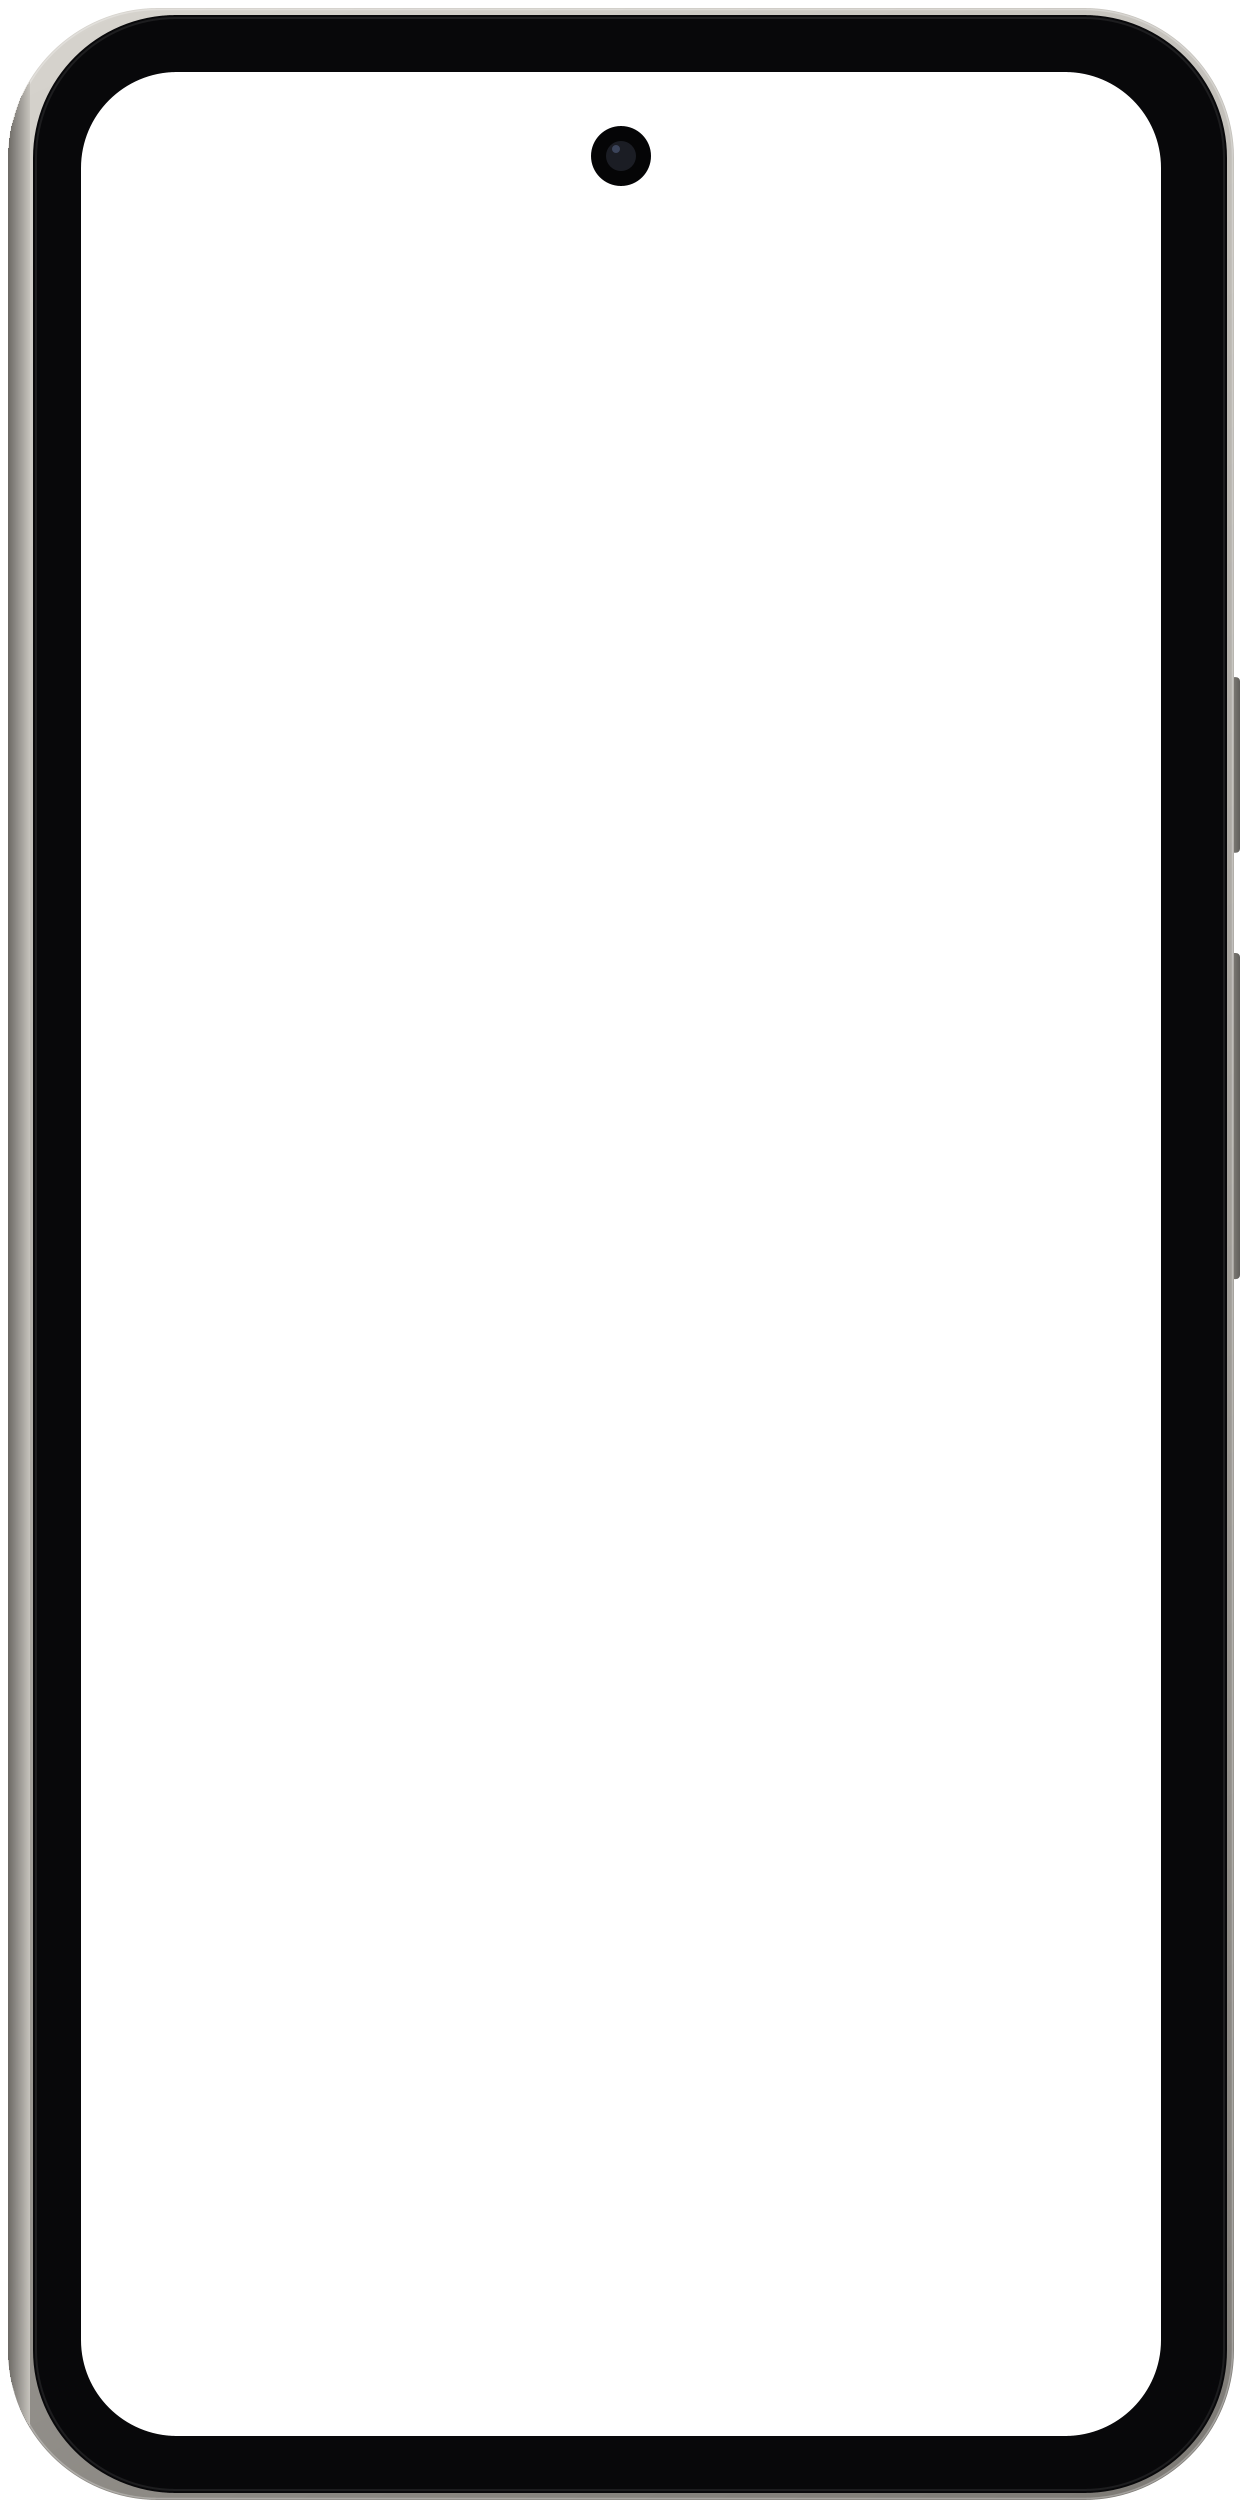
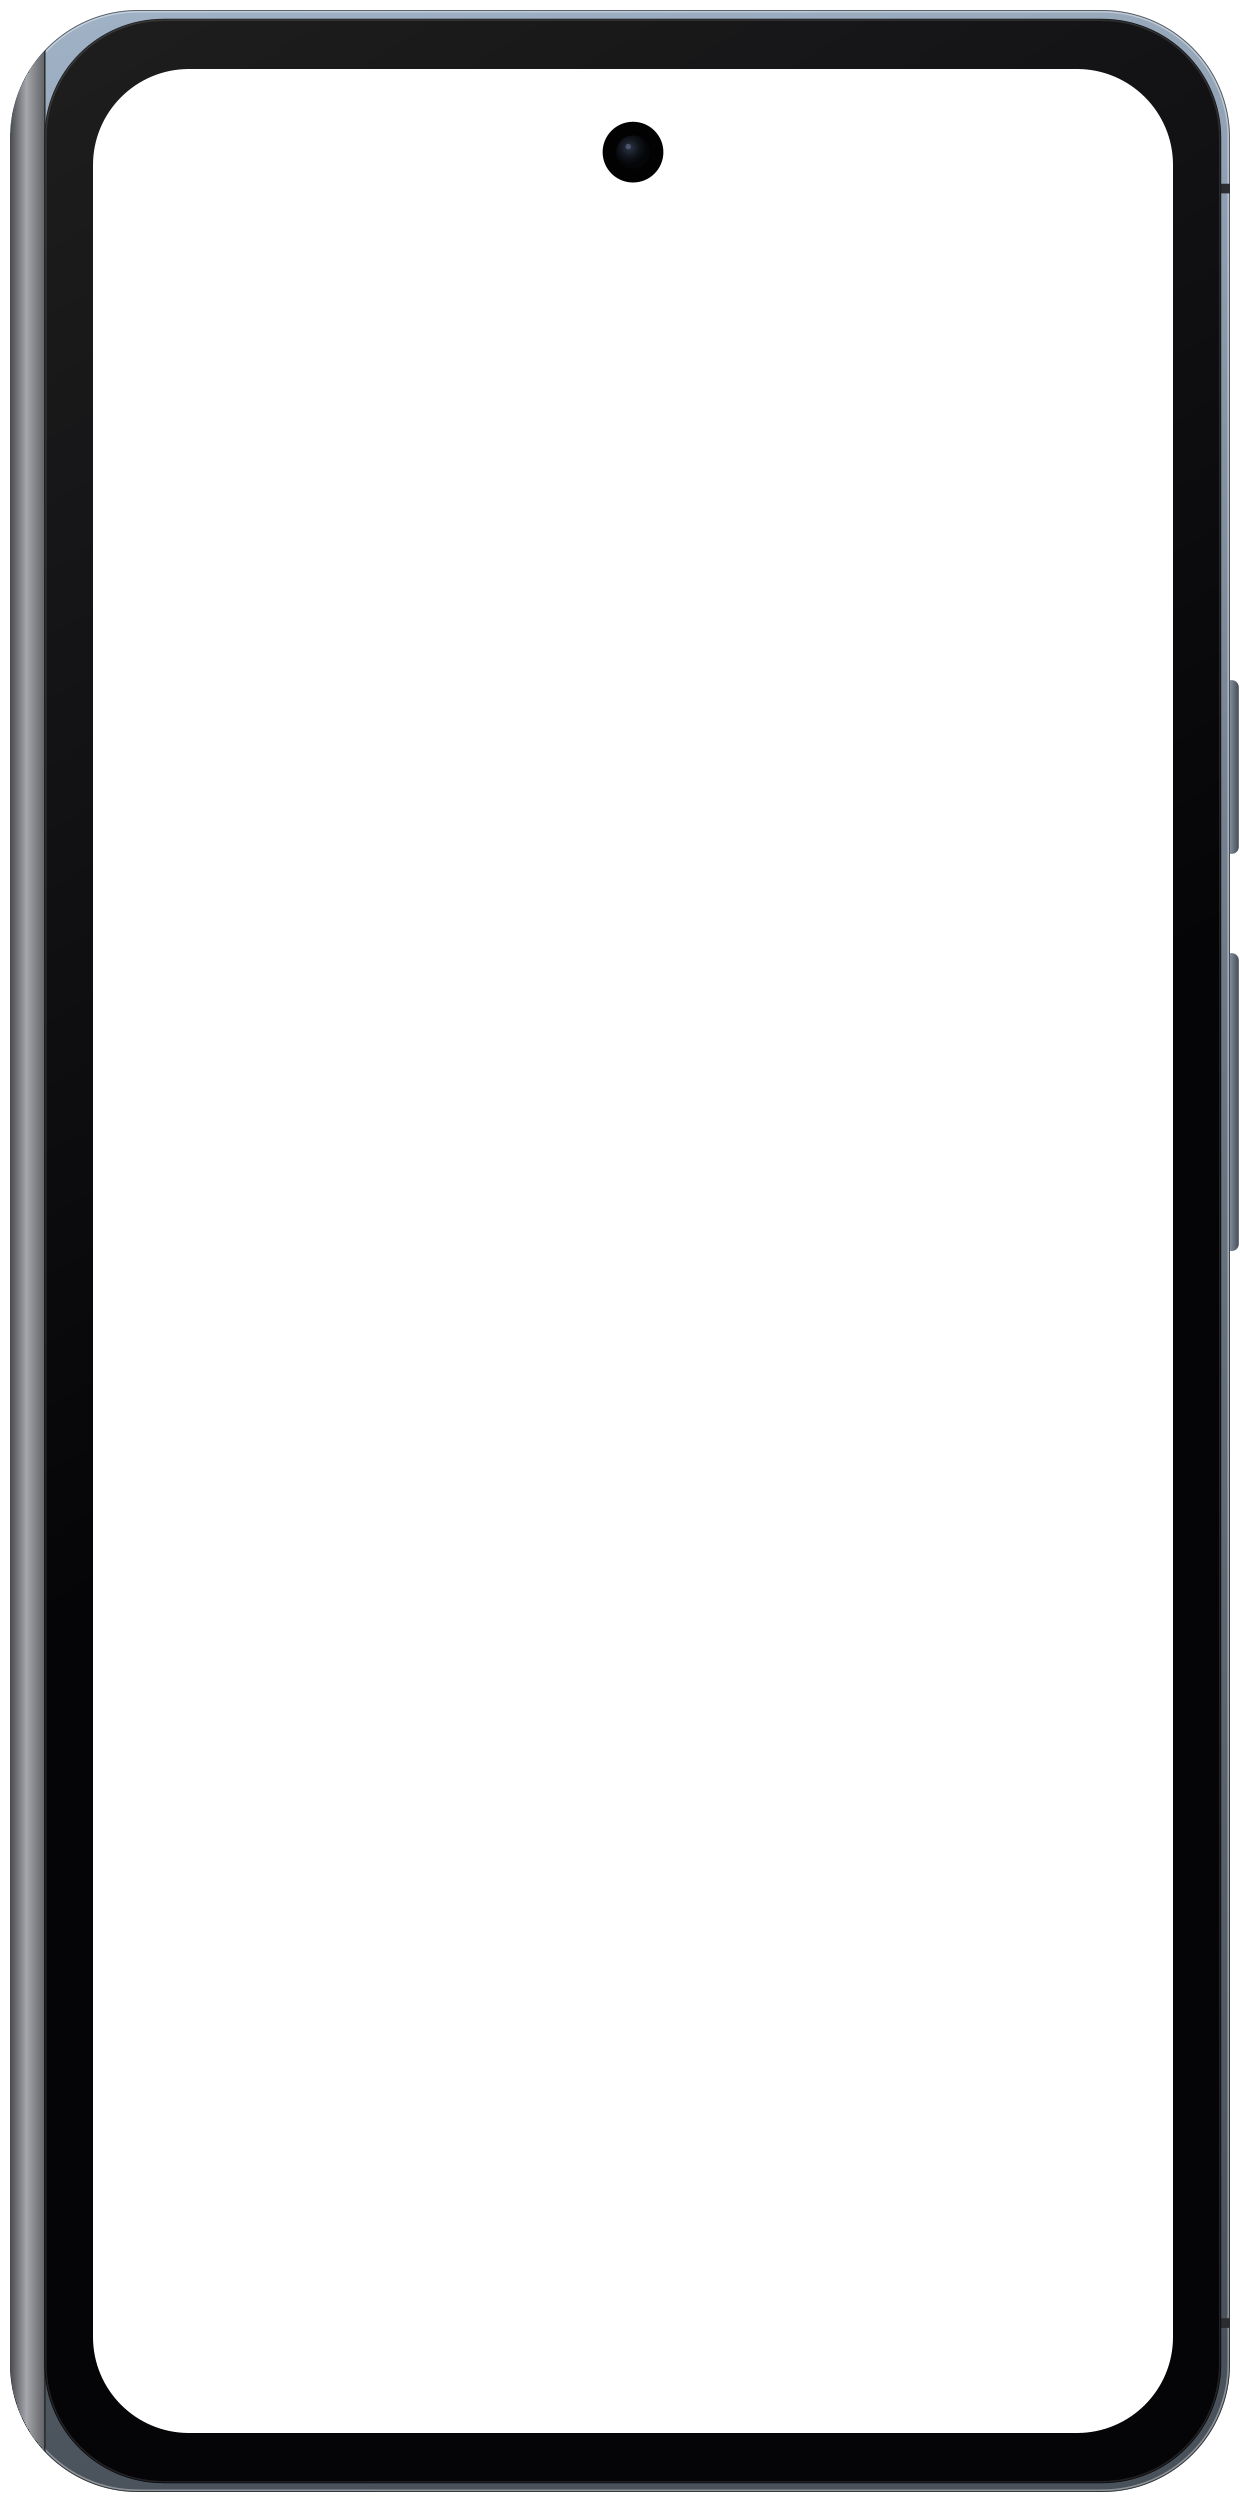
Pixel 10 Pro Fold skin redrawn as the Samsung ones are
One generator (scripts/gen-device-skins.java, which replaces gen-fold-skin.java and
gen-samsung-skins.java) draws every built-in skin. The Pixel's is now drawn the same way: its body
from Google's published sizes at each panel's density, a Moonstone blue-grey frame, softer corners,
the hinge down the cover's left edge, and back.png with its camera block (two lenses over one, the
flash and sensor beside) and the fold look, so its 3D fold has real sides and a real back. The open
frame keeps its size; the cover frame is 1240x2502 (was 1242x2508), as ci-smoke now expects.

Changed region(s): [[0.0, 0.0, 0.9806, 0.9976], [0.9806, 0.0312, 1.0, 0.9664]]

diff --git a/scripts/gen-device-skins.java b/scripts/gen-device-skins.java
@@ -1,8 +1,10 @@
-// Draws the built-in Samsung skins (runtime/src/main/resources/dev/apksim/skins/galaxy-*), frames and skin.json:
-//   java scripts/gen-samsung-skins.java [OUT_DIR]
+// Draws the built-in skins (runtime/src/main/resources/dev/apksim/skins/: the Pixel 10 Pro Fold and the Samsung
+// phones and foldables), frames and skin.json:
+//   java scripts/gen-device-skins.java [OUT_DIR]
 // Each frame is drawn here from the device's published sizes (the body's millimetres, the panel's pixels and diagonal),
-// not taken from any artwork, at the panel's own pixels per millimetre, so a skin's bezels are the device's. The phones
-// run at the resolution Samsung ships them with (FHD+), so their panels are drawn at that resolution's density. The
+// not taken from any artwork, at the panel's own pixels per millimetre, so a skin's bezels are the device's. The Pixel
+// 10 Pro Fold closes as a book, its hinge down the cover side's left edge, its cameras in a block on the back. Samsung's
+// phones run at the resolution Samsung ships them with (FHD+), so their panels are drawn at that resolution's density. The
 // folding ones have a cover frame too (skin.json's "cover"): the Z Fold7 closes as a book, its hinge down the cover
 // side's left edge; the Z Flip7 as a clamshell, its FlexWindow on the top half's back with the hinge below it and the
 // cameras inside the window's bottom left; the Z TriFold in three, a hinge down each side of its cover. Each folding
@@ -32,7 +34,7 @@ import java.util.List;
 import java.util.Locale;
 import javax.imageio.ImageIO;
 
-public class GenSamsungSkins {
+public class GenDeviceSkins {
   static final int MARGIN = 10;  // room outside the body for the buttons
 
   /** A camera drawn over the screen: centre in screen pixels, radius; a lens (a big ring) or a punch hole. */
@@ -54,6 +56,7 @@ public class GenSamsungSkins {
     List<String> hinges = new ArrayList<>();
     double[] gapsX = {}, gapsY = {};
     boolean flash;  // a flash beside the lenses (the Flip's cover)
+    boolean pixelCameras;  // the back's cameras in a Pixel's block, not a Galaxy's column
     Color metal = new Color(0x6e7075);  // the frame's aluminium (a folding device's colour)
     Color glass = new Color(0x202226);  // its back glass
     // Results: the body in the frame's pixels.
@@ -132,6 +135,18 @@ public class GenSamsungSkins {
     phone(root, "galaxy-a56", "Galaxy A56", new Part(1080, 2340, 6.7).body(77.5, 162.2, 0, 0).bottomExtra(1.5).radii(10.2, 7.6)
         .hole(0.5, 4.6, 3.2).button(0.26, 0.34).button(0.36, 0.40));
 
+    // Pixel 10 Pro Fold: open 150.4 x 155.2 mm around an 8.0" 2076x2152 panel, the selfie camera in the right half's top
+    // right corner; closed 76.3 x 155.2 mm around a 6.4" 1080x2364 one, the hinge down the left edge. Moonstone: a
+    // blue-grey polished frame and frosted glass; softer corners than Samsung's.
+    Part pixelOpen = new Part(2076, 2152, 8.0).body(150.4, 155.2, 0, 0).radii(7.0, 4.6).hole(0.918, 6.0, 4.0)
+        .button(0.27, 0.34).button(0.38, 0.50).colour(0x6f7b89, 0x5d6875);
+    pixelOpen.gapsX = new double[] {0.5};
+    pixelOpen.pixelCameras = true;
+    Part pixelCover = new Part(1080, 2364, 6.4).body(76.3, 155.2, 1.6, 0).radii(8.0, 6.0).hole(0.5, 5.2, 3.8)
+        .button(0.27, 0.34).button(0.38, 0.50).colour(0x6f7b89, 0x5d6875);
+    pixelCover.hinges.add("left");
+    foldable(root, "pixel-10-pro-fold", "Pixel 10 Pro Fold", pixelOpen, pixelCover, "book");
+
     // Galaxy Z Fold7: open 143.2 x 158.4 mm around an 8.0" 1968x2184 panel, the selfie camera in the right half's top;
     // closed 72.8 x 158.4 mm around a 6.5" 1080x2520 one, the hinge down the left edge (2 mm more there).
     // Blue Shadow: a dark navy frame and frosted glass.
@@ -180,7 +195,7 @@ public class GenSamsungSkins {
     j.append("  \"frame\": \"frame.png\",\n  \"screen\": ").append(screen(p)).append(",\n");
     j.append("  \"device\": \"").append(name).append("\",\n  \"kind\": \"phone\",\n");
     j.append("  \"cutout\": ").append(cutout(p)).append(",\n");
-    j.append("  \"source\": { \"author\": \"apksim (drawn by scripts/gen-samsung-skins.java)\", \"license\": \"Apache-2.0\" }\n}\n");
+    j.append("  \"source\": { \"author\": \"apksim (drawn by scripts/gen-device-skins.java)\", \"license\": \"Apache-2.0\" }\n}\n");
     Files.writeString(new File(dir, "skin.json").toPath(), j);
   }
 
@@ -208,7 +223,7 @@ public class GenSamsungSkins {
           .append(Math.round(open.bodyY + open.bodyH * b.to)).append("]");
     }
     j.append("] },\n");
-    j.append("  \"source\": { \"author\": \"apksim (drawn by scripts/gen-samsung-skins.java)\", \"license\": \"Apache-2.0\" }\n}\n");
+    j.append("  \"source\": { \"author\": \"apksim (drawn by scripts/gen-device-skins.java)\", \"license\": \"Apache-2.0\" }\n}\n");
     Files.writeString(new File(dir, "skin.json").toPath().toAbsolutePath(), j.toString().replace(",\n  \"cutout\": null", ""));
   }
 
@@ -395,7 +410,8 @@ public class GenSamsungSkins {
       // The left half's back (on the right from behind) is the cover display; the right half's has the cameras.
       double half = bw / 2;
       coverGlass(g, bx + half + 0.9 * mm, by + 1.6 * mm, half - 2.5 * mm, bh - 3.2 * mm, p.screenR * mm * 1.2);
-      island(g, bx + 6.5 * mm, by + 6.5 * mm, 15.5 * mm, 42 * mm, 3, mm, p);
+      if (p.pixelCameras) pixelBlock(g, bx + 7 * mm, by + 7 * mm, mm, p);
+      else island(g, bx + 6.5 * mm, by + 6.5 * mm, 15.5 * mm, 42 * mm, 3, mm, p);
     } else if (across) {
       // The top half's back: the FlexWindow, edge to edge above the hinge, the lenses in its bottom left.
       double top = p.screenY + p.sh * 0.5 - 3.6 * mm / 2 - 1.0 * mm;
@@ -447,6 +463,30 @@ public class GenSamsungSkins {
     g.fill(s);
     g.setPaint(new GradientPaint((float) x, (float) y, new Color(255, 255, 255, 30), (float) (x + w * 0.6), (float) (y + h * 0.5), new Color(255, 255, 255, 0)));
     g.fill(s);
+  }
+
+  /**
+   * A Pixel's camera block: a raised rounded rectangle in polished metal, the three lenses two above one, the flash and
+   * the temperature sensor beside them.
+   */
+  static void pixelBlock(Graphics2D g, double x, double y, double mm, Part p) {
+    double w = 33 * mm, h = 23 * mm, r = 8 * mm;
+    g.setPaint(new Color(0, 0, 0, 80));
+    g.fill(new RoundRectangle2D.Double(x + 0.4 * mm, y + 0.7 * mm, w, h, 2 * r, 2 * r));
+    g.setPaint(new LinearGradientPaint(new Point2D.Double(x, y), new Point2D.Double(x + w, y + h), new float[] {0f, 0.5f, 1f},
+        new Color[] {shade(p.metal, 1.5), shade(p.metal, 1.05), shade(p.metal, 0.7)}));
+    g.fill(new RoundRectangle2D.Double(x, y, w, h, 2 * r, 2 * r));
+    g.setPaint(new Color(0x0d0e10));
+    g.fill(new RoundRectangle2D.Double(x + 1.2 * mm, y + 1.2 * mm, w - 2.4 * mm, h - 2.4 * mm, 2 * (r - 1.2 * mm), 2 * (r - 1.2 * mm)));
+    double lr = 4.6 * mm;
+    lens(g, x + 7.4 * mm, y + 6.6 * mm, lr, mm);
+    lens(g, x + 18.6 * mm, y + 6.6 * mm, lr, mm);
+    lens(g, x + 7.4 * mm, y + 16.6 * mm, lr * 0.85, mm);
+    double fr = 1.3 * mm;
+    g.setPaint(new Color(0xd9ceb0));
+    g.fill(new Ellipse2D.Double(x + 26.5 * mm - fr, y + 6.6 * mm - fr, 2 * fr, 2 * fr));
+    g.setPaint(new Color(0x222326));
+    g.fill(new Ellipse2D.Double(x + 26.5 * mm - fr, y + 12.5 * mm - fr, 2 * fr, 2 * fr));
   }
 
   /** A raised camera island: a rounded slab in the frame's metal with lenses down it and a flash beside. */

diff --git a/docs/skins.md b/docs/skins.md
@@ -139,7 +139,7 @@ These skins come with apksim, inside apksim.jar (`runtime/src/main/resources/dev
 
 | Skin | Frames |
 |---|---|
-| `pixel-10-pro-fold` | open (2076x2152, the camera in the screen's top right corner) and, through `cover`, closed (the 1080x2364 panel, of which the display is 1079 px wide: whole dp; the camera top centre, the hinge on the left) |
+| `pixel-10-pro-fold` | open (2076x2152, the camera in the screen's top right corner) and, through `cover`, closed (the 1080x2364 panel, of which the display is 1079 px wide: whole dp; the camera top centre, the hinge on the left); Moonstone, the camera block on its back |
 | `galaxy-z-fold7` | open (1968x2184, the camera at the top of the right half) and closed (1080x2520, the hinge on the left) |
 | `galaxy-z-flip7` | open (1080x2520, the hinge's breaks in the side rails) and closed (the 948x1048 FlexWindow edge to edge, the two lenses and the flash inside its bottom left, the hinge below it) |
 | `galaxy-z-trifold` | open (2160x1584, the hinges' breaks at its thirds) and closed (1080x2520, a hinge down each side) |
@@ -149,8 +149,8 @@ They are found after the store and the shared folders, so a stored skin of the s
 shows them as `built-in`. A page of `serve` or `beam` is given a folding skin's cover frame (`cover.png`) and its
 geometry (`cover` in `/api/skins`), but draws only the open frame itself: closed, it draws none unless it draws the
 cover. Every frame is drawn from the device's published sizes, not taken from artwork, at the panel's own pixels per
-millimetre, so the bezels are the device's: the Pixel's by `scripts/gen-fold-skin.java`, the Samsung ones by
-`scripts/gen-samsung-skins.java` (`java scripts/gen-samsung-skins.java` writes the frames and skin.json files; the
+millimetre, so the bezels are the device's, by `scripts/gen-device-skins.java` (`java scripts/gen-device-skins.java`
+writes the frames, backs and skin.json files; the
 panels must agree with `Fold.java`). In the Mac window a fold plays as the device closing or opening in its frame
 (AGENTS.md, `Fold`); `scripts/fold-frames.m` renders that animation from a skin's frames, with no app running.
 

diff --git a/AGENTS.md b/AGENTS.md
@@ -189,8 +189,8 @@ Read README.md for results and limits; this file covers how to work on the code.
     test screens and no app, any number of frames: iterate on the animation there. The built-in skins
     `pixel-10-pro-fold`, `galaxy-z-fold7`, `galaxy-z-flip7` and `galaxy-z-trifold` (`--skin NAME`, which implies the
     device; docs/skins.md "Built-in skins") are pairs: `frame.png` around the inner display and `cover.png` around the
-    cover display (skin.json's `cover`), drawn by `scripts/gen-fold-skin.java` (the Pixel) and
-    `scripts/gen-samsung-skins.java` (Samsung, the S25, S25+, S25 Ultra and A56 phones too) from the devices'
+    cover display (skin.json's `cover`) with `back.png` and the `fold` look, all drawn by `scripts/gen-device-skins.java`
+    (the Samsung S25, S25+, S25 Ultra and A56 phones too) from the devices'
     published sizes at each panel's pixels per millimetre; `Skinning.part` picks the cover frame, corners and camera
     cutout while the device is closed, so the skin stays on through a fold. Not done: the posture in flight-recorder
     checkpoints (a replayed shape has one frame), a fold while rotated, a TriFold in its two-panel posture (it has
@@ -718,7 +718,7 @@ Read README.md for results and limits; this file covers how to work on the code.
   `make-media.sh` (test clips), `docker-build.sh` and `ci-smoke.sh` (Linux image, CI), `network-check.sh` and
   `network-fixture.py` (record, replay and conditions against the test app, see "Network"), `package-release.sh` (see
   "Releases"),
-  `gen-samsung-skins.java` (the built-in Samsung skins, see `Fold`), `fold-frames.m` (the fold animation rendered
+  `gen-device-skins.java` (every built-in skin, see `Fold`), `fold-frames.m` (the fold animation rendered
   from a skin's frames, no app: see `Fold`),
   `gen-window-frames.py` and `window-frames-check.py` (each window's frame of the test app's window screens on an API 36
   emulator, `testapks/composeapp/window-frames-api36.tsv`, against apksim's `windows`; scenes in `window-frames-scenes.txt`,
